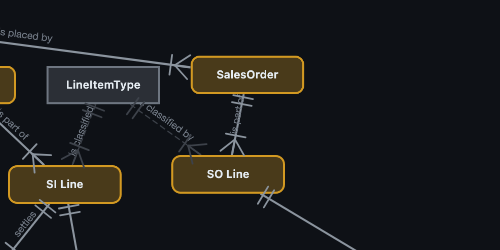
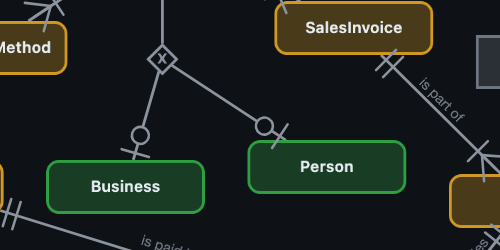
feat: good place

diff --git a/src/App.tsx b/src/App.tsx
@@ -67,6 +67,19 @@ function buildStyles(groups: Record<string, GroupConfig>): cytoscape.Stylesheet[
       style: { 'shape': 'rectangle' },
     },
     {
+      selector: 'node[cluster = "true"]',
+      style: {
+        'shape': 'round-rectangle',
+        'background-color': 'transparent',
+        'background-opacity': 0,
+        'border-width': 1,
+        'border-color': '#21262d',
+        'border-opacity': 0.4,
+        'padding': '10px' as unknown as number,
+        'label': '',
+      },
+    },
+    {
       selector: 'node[joiner = "true"]',
       style: {
         'shape': 'diamond',
@@ -320,17 +333,31 @@ export function App() {
       });
     }
 
-    // Add joiner nodes and rewire subtype edges
+    // Add compound cluster nodes, joiner nodes, and rewire subtype edges
     for (const cluster of model.subtypeClusters) {
+      const clusterId = `_cluster_${cluster.basetype}_${cluster.exclusive ? 'x' : 'i'}`;
       const joinerId = `_joiner_${cluster.basetype}_${cluster.exclusive ? 'x' : 'i'}`;
+
+      // Invisible compound parent that groups the subtypes
+      elements.push({
+        data: {
+          id: clusterId,
+          label: '',
+          cluster: 'true',
+        },
+      });
+
+      // Joiner inside the compound
       elements.push({
         data: {
           id: joinerId,
+          parent: clusterId,
           label: cluster.exclusive ? 'X' : '',
           joiner: 'true',
           exclusive: String(cluster.exclusive),
         },
       });
+
       // Edge from basetype to joiner
       elements.push({
         data: {
@@ -344,8 +371,13 @@ export function App() {
           subtypeEdge: 'true',
         },
       });
-      // Edges from joiner to each subtype
+
+      // Each subtype is a child of the compound, with edge from joiner
       for (const member of cluster.members) {
+        // Set parent on the existing node element
+        const nodeEl = elements.find(e => e.data.id === member);
+        if (nodeEl) nodeEl.data.parent = clusterId;
+
         elements.push({
           data: {
             id: `${joinerId}-${member}`,
@@ -378,6 +410,13 @@ export function App() {
       });
     }
 
+    const longestPredicate = model.edges.reduce(
+      (max, e) => Math.max(max, e.predicate.length), 0
+    );
+    const charWidth = 6; // ~6px per char at font-size 10
+    const markerPadding = 50; // room for markers on both ends
+    const layerSpacing = Math.max(80, longestPredicate * charWidth + markerPadding);
+
     const cy = cytoscape({
       container: graphRef.current,
       elements,
@@ -386,13 +425,14 @@ export function App() {
         elk: {
           algorithm: 'layered',
           'elk.direction': 'DOWN',
-          'elk.layered.spacing.nodeNodeBetweenLayers': '60',
+          'elk.layered.spacing.nodeNodeBetweenLayers': String(layerSpacing),
           'elk.spacing.nodeNode': '30',
           'elk.edgeRouting': 'ORTHOGONAL',
           'elk.layered.crossingMinimization.strategy': 'LAYER_SWEEP',
           'elk.layered.nodePlacement.strategy': 'NETWORK_SIMPLEX',
           'elk.layered.layering.strategy': 'NETWORK_SIMPLEX',
           'elk.layered.compaction.postCompaction.strategy': 'EDGE_LENGTH',
+          'elk.hierarchyHandling': 'INCLUDE_CHILDREN',
         },
       } as cytoscape.LayoutOptions,
       style: buildStyles(model.groups),

diff --git a/src/markers.ts b/src/markers.ts
@@ -21,6 +21,9 @@ export function createMarkerOverlay(container: HTMLDivElement): SVGSVGElement {
 export function updateMarkers(cy: cytoscape.Core, svg: SVGSVGElement) {
   while (svg.firstChild) svg.removeChild(svg.firstChild);
 
+  const zoom = cy.zoom();
+  const scale = Math.min(Math.max(zoom, 0.5), 2.5);
+
   cy.edges().forEach(edge => {
     if (!edge.visible()) return;
     const parentCard = edge.data('parentCard') as Cardinality;
@@ -39,8 +42,8 @@ export function updateMarkers(cy: cytoscape.Core, svg: SVGSVGElement) {
     const srcAngle = Math.atan2(dy, dx);
     const tgtAngle = Math.atan2(-dy, -dx);
 
-    drawEndMarker(svg, srcPt.x, srcPt.y, srcAngle, parentCard, color);
-    drawEndMarker(svg, tgtPt.x, tgtPt.y, tgtAngle, childCard, color);
+    drawEndMarker(svg, srcPt.x, srcPt.y, srcAngle, parentCard, color, scale);
+    drawEndMarker(svg, tgtPt.x, tgtPt.y, tgtAngle, childCard, color, scale);
   });
 }
 
@@ -63,37 +66,35 @@ function drawEndMarker(
   angle: number,
   card: Cardinality,
   color: string,
+  scale: number,
 ) {
   const g = document.createElementNS('http://www.w3.org/2000/svg', 'g');
-  g.setAttribute('transform', `translate(${x},${y}) rotate(${angle * 180 / Math.PI})`);
+  g.setAttribute('transform', `translate(${x},${y}) rotate(${angle * 180 / Math.PI}) scale(${scale})`);
 
   const sw = 1.8;
-  const h = 10;       // bar half-height
-  const sp = 7;       // spacing between symbol parts
-  const cr = 6;       // circle radius
-  const fan = 12;     // crow's foot prong spread (half)
-  const forkLen = 14; // length of crow's foot prongs
+  const h = 10;
+  const sp = 7;
+  const cr = 6;
+  const fan = 12;
+  const forkLen = 14;
+  const off = 10; // offset from node edge
 
   switch (card) {
     case '1': {
-      // Two perpendicular bars
-      bar(g, 3, h, color, sw);
-      bar(g, 3 + sp, h, color, sw);
+      bar(g, off, h, color, sw);
+      bar(g, off + sp, h, color, sw);
       break;
     }
     case '0..1': {
-      // Bar (near entity) + hollow circle (toward line)
-      bar(g, 3, h, color, sw);
-      cir(g, 3 + sp + cr, cr, color, sw);
+      bar(g, off, h, color, sw);
+      cir(g, off + sp + cr, cr, color, sw);
       break;
     }
     case 'many': {
-      // Crow's foot: prongs fan at X=0 (entity side), converge at forkLen (line side)
-      // Then a bar past convergence
-      const convX = 2 + forkLen;
-      ln(g, convX, 0, 2, 0, color, sw);
-      ln(g, convX, 0, 2, -fan, color, sw);
-      ln(g, convX, 0, 2, fan, color, sw);
+      const convX = off + forkLen;
+      ln(g, convX, 0, off, 0, color, sw);
+      ln(g, convX, 0, off, -fan, color, sw);
+      ln(g, convX, 0, off, fan, color, sw);
       bar(g, convX + 4, h, color, sw);
       break;
     }

diff --git a/tmp/screenshot.ts b/tmp/screenshot.ts
@@ -15,16 +15,13 @@ await page.screenshot({
   path: 'tmp/detail.png',
   clip: { x: 300, y: 250, width: 500, height: 300 }
 });
-// Right side - Identity subtypes
-await page.screenshot({
-  path: 'tmp/detail2.png',
-  clip: { x: 700, y: 300, width: 500, height: 250 }
+// Zoomed-in view via browser zoom
+await page.evaluate(() => {
+  const cy = (document.querySelector('.graph-panel') as any)?.__cy;
+  if (cy) { cy.zoom(2); cy.center(); }
 });
-// Left side - Payment chain
-await page.screenshot({
-  path: 'tmp/detail3.png',
-  clip: { x: 0, y: 280, width: 350, height: 300 }
-});
+await page.waitForTimeout(1000);
+await page.screenshot({ path: 'tmp/zoomed.png' });
 
 await browser.close();
 console.log('Screenshots saved');